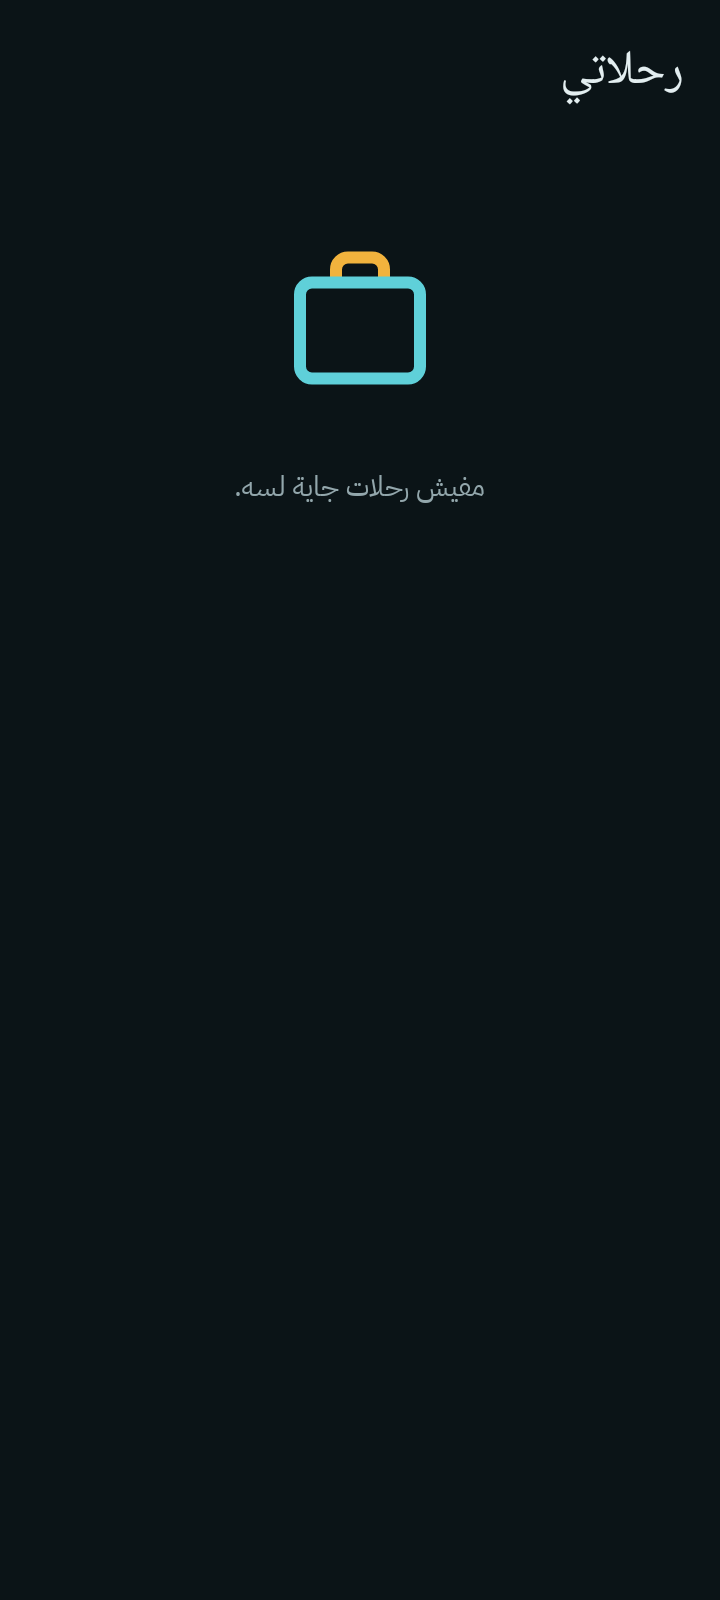
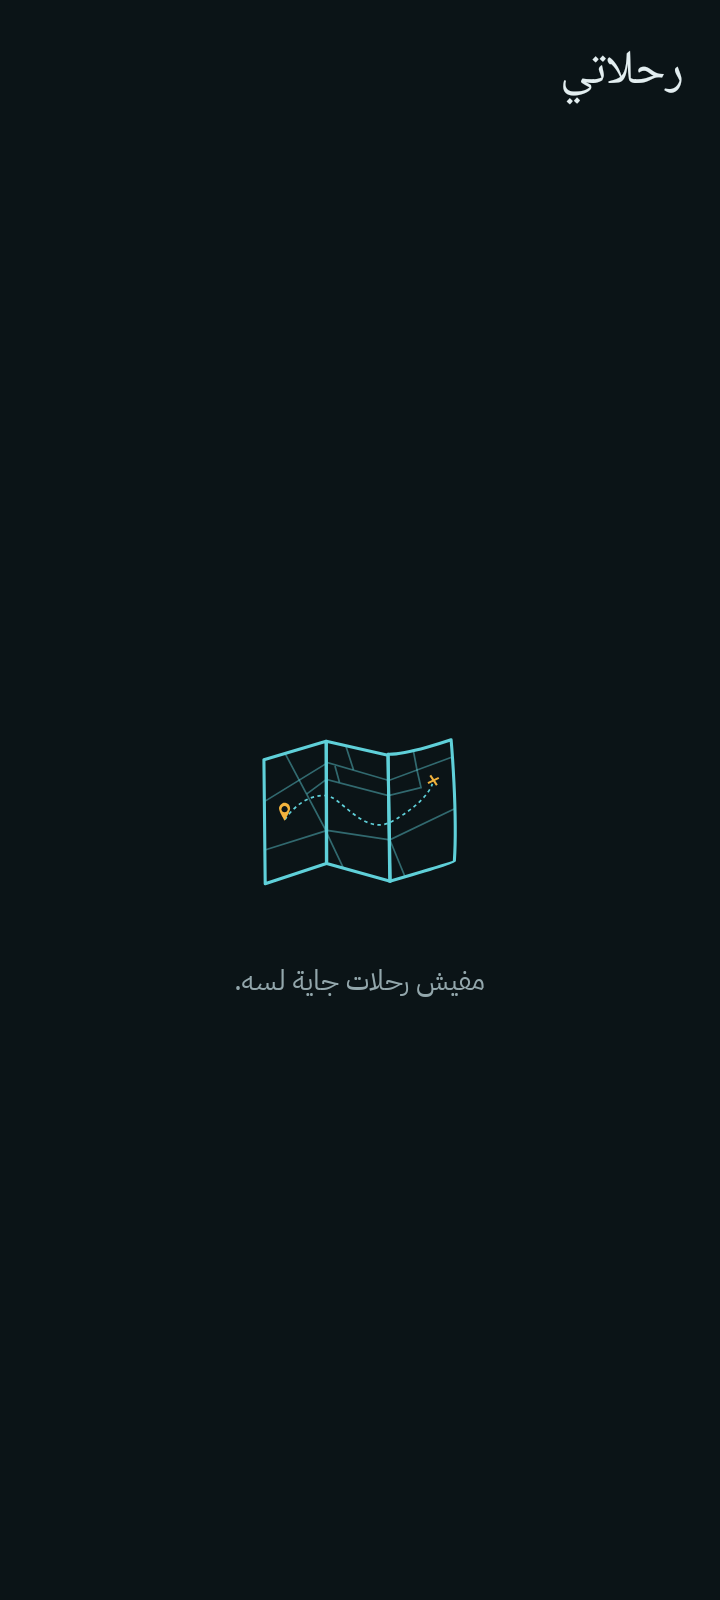
My trips empty state centred under the title (fillParentMaxSize, pull-to-refresh kept) and a new Lottie: "map opening animation" by Arslan Ali (Lottie Simple License) recoloured to primary/secondary, cropped to 700², replaces suitcase.json

diff --git a/feature/mytrips/src/commonMain/kotlin/eg/bahr/feature/mytrips/presentation/MyTripsScreen.kt b/feature/mytrips/src/commonMain/kotlin/eg/bahr/feature/mytrips/presentation/MyTripsScreen.kt
@@ -2,6 +2,7 @@ package eg.bahr.feature.mytrips.presentation
 
 import androidx.compose.foundation.background
 import androidx.compose.foundation.layout.Arrangement
+import androidx.compose.foundation.layout.Box
 import androidx.compose.foundation.layout.Column
 import androidx.compose.foundation.layout.PaddingValues
 import androidx.compose.foundation.layout.WindowInsets
@@ -157,20 +158,20 @@ internal fun MyTripsContent(
             contentPadding = PaddingValues(horizontal = BahrSpacing.gutter, vertical = BahrSpacing.lg),
             verticalArrangement = Arrangement.spacedBy(BahrSpacing.md),
         ) {
-            item(key = "title", contentType = CONTENT_HEADING) {
-                Text(
-                    text = stringResource(Res.string.mytrips_title),
-                    style = MaterialTheme.typography.headlineSmall,
-                    color = MaterialTheme.colorScheme.onSurface,
-                    modifier = Modifier.semantics { heading() }.padding(bottom = BahrSpacing.sm),
-                )
-            }
-            when (state.session) {
-                // The stored sign-in is read in a moment; drawing neither state until then keeps the
-                // signed-out prompt or a bookings skeleton from flashing (as the Alerts tab does, M3-M14).
-                SessionState.Unknown -> Unit
-                SessionState.SignedOut -> signedOut(state, actions)
-                is SessionState.SignedIn -> signedIn(state, blocks, past, actions)
+            if (signedIn && blocks.isEmpty()) {
+                // No trips yet: the title and the empty state share one item as tall as the list, so the state
+                // sits in the middle of the space under the title (a lazy item alone has no height to centre in;
+                // user, 2026-11-12). The list stays, so pulling down still reads the three sections again.
+                item(key = "empty", contentType = CONTENT_EMPTY) { NoTrips(Modifier.fillParentMaxSize()) }
+            } else {
+                item(key = "title", contentType = CONTENT_HEADING) { Title() }
+                when (state.session) {
+                    // The stored sign-in is read in a moment; drawing neither state until then keeps the
+                    // signed-out prompt or a bookings skeleton from flashing (as the Alerts tab does, M3-M14).
+                    SessionState.Unknown -> Unit
+                    SessionState.SignedOut -> signedOut(state, actions)
+                    is SessionState.SignedIn -> signedIn(state, blocks, past, actions)
+                }
             }
         }
     }
@@ -198,28 +199,49 @@ private fun LazyListScope.signedOut(
     }
 }
 
-/** The sections in their order ([sectionBlocks]); none at all is the empty state. */
+@Composable
+private fun Title(modifier: Modifier = Modifier) {
+    Text(
+        text = stringResource(Res.string.mytrips_title),
+        style = MaterialTheme.typography.headlineSmall,
+        color = MaterialTheme.colorScheme.onSurface,
+        modifier = modifier.semantics { heading() }.padding(bottom = BahrSpacing.sm),
+    )
+}
+
+/**
+ * Signed in with no trips in any section: the title, and under it, centred in the rest of [modifier]'s height,
+ * a map opening with a route to a pin while on screen (2026-11-12; a suitcase since M3-M8b) over the line that
+ * says it, so the animation is decorative. Drawn on the page's `background`, which its pin's hole and the
+ * route's end take ([BahrLottie.Ground.Background]).
+ */
+@Composable
+private fun NoTrips(modifier: Modifier) {
+    Column(modifier) {
+        Title()
+        Box(Modifier.weight(1f).fillMaxWidth()) {
+            BahrEmptyView(stringResource(Res.string.mytrips_empty_upcoming)) {
+                BahrLottie(
+                    modifier = Modifier.width(BahrSize.lottieState),
+                    props =
+                        BahrLottie.Props(
+                            BahrLottie.Animation.MapRoute,
+                            playback = BahrLottie.Playback.Loop,
+                            ground = BahrLottie.Ground.Background,
+                        ),
+                )
+            }
+        }
+    }
+}
+
+/** The sections in their order ([sectionBlocks]); never empty (that is [NoTrips]). */
 private fun LazyListScope.signedIn(
     state: MyTripsUiState,
     blocks: List<SectionBlock>,
     past: LazyPagingItems<MyBookingDto>,
     actions: MyTripsActions,
 ) {
-    if (blocks.isEmpty()) {
-        item(key = "empty", contentType = CONTENT_EMPTY) {
-            // No trips yet (M3-M8b): a suitcase packing and unpacking itself while on screen. Decorative:
-            // the line under it says it.
-            Centered {
-                BahrEmptyView(stringResource(Res.string.mytrips_empty_upcoming)) {
-                    BahrLottie(
-                        modifier = Modifier.width(BahrSize.lottieState),
-                        props = BahrLottie.Props(BahrLottie.Animation.Suitcase, playback = BahrLottie.Playback.Loop),
-                    )
-                }
-            }
-        }
-        return
-    }
     blocks.forEach { block ->
         val section = block.section
         when (block) {

diff --git a/feature/mytrips/src/androidHostTest/kotlin/eg/bahr/feature/mytrips/presentation/MyTripsScreenshotTest.kt b/feature/mytrips/src/androidHostTest/kotlin/eg/bahr/feature/mytrips/presentation/MyTripsScreenshotTest.kt
@@ -57,6 +57,7 @@ import org.junit.runner.RunWith
 import org.robolectric.RobolectricTestRunner
 import org.robolectric.annotation.Config
 import org.robolectric.annotation.GraphicsMode
+import kotlin.math.absoluteValue
 import kotlin.test.assertEquals
 import kotlin.test.assertTrue
 
@@ -245,7 +246,8 @@ class MyTripsScreenshotTest {
     fun sectionFailedDarkEnglish() =
         shoot("mytrips_section_failed_dark", AppLanguage.ENGLISH, waitlistFailed, MyTripsFixtures.past(), theme = BahrThemeName.Dark)
 
-    // Signed in, no trips in any section (M3-M8b): the looping suitcase over the line, shot still under reduced motion.
+    // Signed in, no trips in any section (M3-M8b): the looping map (a suitcase until 2026-11-12) over the line, in the
+    // middle of the space under the title; shot still under reduced motion.
     private val empty =
         MyTripsUiState(session = signedIn, upcoming = SectionLoad.Loaded(emptyList()), waitlist = SectionLoad.Loaded(emptyList()))
 
@@ -260,6 +262,47 @@ class MyTripsScreenshotTest {
 
     @Test
     fun emptyDarkEnglish() = shootStill("mytrips_empty_dark", AppLanguage.ENGLISH, empty, BahrThemeName.Dark)
+
+    /** User, 2026-11-12: the empty state sits in the middle of the space under the title, not at its top. */
+    @Test
+    fun `no trips - the empty state is centred under the title`() {
+        compose.setContent {
+            Themed(AppLanguage.ENGLISH, reducedMotion = true) {
+                MyTripsContent(
+                    state = empty,
+                    past = flowOf(PagingData.from(emptyList<MyBookingDto>(), loaded)).collectAsLazyPagingItems(),
+                    actions = MyTripsActions(),
+                )
+            }
+        }
+        compose.waitUntil(LOTTIE_LOAD_TIMEOUT_MS) { compose.onAllNodesWithTag(BAHR_LOTTIE_READY_TAG).fetchSemanticsNodes().isNotEmpty() }
+        val title = compose.onNodeWithText("My trips").getBoundsInRoot()
+        val list = compose.onNodeWithTag(MY_TRIPS_LIST_TAG).getBoundsInRoot()
+        val art = compose.onNodeWithTag(BAHR_LOTTIE_READY_TAG).getBoundsInRoot()
+        val line = compose.onNodeWithText("No upcoming trips yet.").getBoundsInRoot()
+        // The space under the title ends at the list's bottom padding.
+        val spaceMiddle = (title.bottom + list.bottom - BahrSpacing.lg) / 2
+        val stateMiddle = (art.top + line.bottom) / 2
+        assertTrue((stateMiddle - spaceMiddle).value.absoluteValue <= BahrSpacing.xs.value, "off centre by ${stateMiddle - spaceMiddle}")
+        assertTrue((art.left + art.right - list.left - list.right).value.absoluteValue <= BahrSpacing.xs.value, "not centred across")
+    }
+
+    /** The centred empty state is still the list: pulling it down reads the sections again. */
+    @Test
+    fun `no trips - a pull refreshes`() {
+        var pulls = 0
+        compose.setContent {
+            Themed(AppLanguage.ENGLISH, reducedMotion = true) {
+                MyTripsContent(
+                    state = empty,
+                    past = flowOf(PagingData.from(emptyList<MyBookingDto>(), loaded)).collectAsLazyPagingItems(),
+                    actions = MyTripsActions(onRefresh = { pulls++ }),
+                )
+            }
+        }
+        compose.onNodeWithTag(MY_TRIPS_LIST_TAG).performTouchInput { swipeDown() }
+        compose.runOnIdle { assertEquals(1, pulls) }
+    }
 
     @Test
     fun `Rate your trip calls back with the booking and its trip's title - only where it may be reviewed`() {

diff --git a/core/designsystem/src/androidHostTest/kotlin/eg/bahr/core/designsystem/components/BahrLottieScreenshotTest.kt b/core/designsystem/src/androidHostTest/kotlin/eg/bahr/core/designsystem/components/BahrLottieScreenshotTest.kt
@@ -33,9 +33,9 @@ import org.robolectric.annotation.GraphicsMode
 /**
  * BahrLottie (M3-M8): each shipped animation re-tinted for {light, dark, HighContrast}, on a fixed frame:
  *  - still (reduced motion: the last whole frame, where a played-once animation stops, or the frame the
- *    animation names, the suitcase's), in ar and en (the animation itself is not mirrored);
+ *    animation names), in ar and en (the animation itself is not mirrored);
  *  - mid-animation, to show the moving parts' colours (the bell's rings, the boat between two rocks, the
- *    check's halo, the suitcase growing).
+ *    check's halo, the map's pin popping up).
  *
  * Record: `./gradlew :core:designsystem:recordRoborazziAndroidHostTest`.
  */
@@ -103,10 +103,10 @@ class BahrLottieScreenshotTest {
                         BahrLottie(Modifier.width(BahrSize.lottieState), BahrLottie.Props(BahrLottie.Animation.Bell), progress)
                         BahrLottie(Modifier.height(BahrSize.lottieHero), BahrLottie.Props(BahrLottie.Animation.Sailboat), progress)
                     }
-                    // M3-M8b: the done moment's check, and the empty states' suitcase and magnifier.
+                    // M3-M8b: the done moment's check, and the empty states' map (My trips, since 2026-11-12) and magnifier.
                     Row(horizontalArrangement = Arrangement.spacedBy(BahrSpacing.md), verticalAlignment = Alignment.CenterVertically) {
                         BahrLottie(Modifier.width(BahrSize.lottieMoment), BahrLottie.Props(BahrLottie.Animation.SuccessCheck), progress)
-                        BahrLottie(Modifier.width(BahrSize.lottieMoment), BahrLottie.Props(BahrLottie.Animation.Suitcase), progress)
+                        BahrLottie(Modifier.width(BahrSize.lottieMoment), BahrLottie.Props(BahrLottie.Animation.MapRoute), progress)
                         BahrLottie(Modifier.width(BahrSize.lottieMoment), BahrLottie.Props(BahrLottie.Animation.Magnifier), progress)
                     }
                     Text(

diff --git a/core/designsystem/src/commonMain/kotlin/eg/bahr/core/designsystem/components/BahrLottie.kt b/core/designsystem/src/commonMain/kotlin/eg/bahr/core/designsystem/components/BahrLottie.kt
@@ -72,10 +72,10 @@ interface BahrLottie {
         SuccessCheck("files/lottie/success_check.json", SQUARE),
 
         /**
-         * A line-drawn suitcase that grows from a dot, shows its handle and shrinks back to the dot
-         * (square). Its still frame is the whole suitcase: the loop starts and ends on the dot.
+         * A line-drawn folded map that opens, its roads drawn in, a pin dropping and a dotted route
+         * leading from it to a cross, then held (square). Its still frame is the last: the whole map.
          */
-        Suitcase("files/lottie/suitcase.json", SQUARE, stillProgress = SUITCASE_STILL),
+        MapRoute("files/lottie/map_route.json", SQUARE),
 
         /** A magnifying glass with a sad face that changes its mind now and then (square). */
         Magnifier("files/lottie/magnifier.json", SQUARE),
@@ -229,8 +229,5 @@ private const val BELL_HEIGHT = 663f
 private const val SAILBOAT_WIDTH = 348f
 private const val SAILBOAT_HEIGHT = 240f
 
-/** The success check, suitcase and magnifier files have square canvases. */
+/** The success check, map and magnifier files have square canvases. */
 private const val SQUARE = 1f
-
-/** Mid-loop, between growing and shrinking: the whole suitcase with its handle. */
-private const val SUITCASE_STILL = .5f

diff --git a/core/designsystem/src/androidHostTest/kotlin/eg/bahr/core/designsystem/components/BahrLottieFramesTest.kt b/core/designsystem/src/androidHostTest/kotlin/eg/bahr/core/designsystem/components/BahrLottieFramesTest.kt
@@ -68,8 +68,8 @@ class BahrLottieFramesTest {
 
     /** The empty states' loops (M3-M8b) pause out of view like the bell. */
     @Test
-    fun suitcaseLoopOutOfViewAsksForNoFrames() {
-        show(BahrLottie.Playback.Loop, offScreen = true, animation = BahrLottie.Animation.Suitcase)
+    fun mapLoopOutOfViewAsksForNoFrames() {
+        show(BahrLottie.Playback.Loop, offScreen = true, animation = BahrLottie.Animation.MapRoute)
         compose.mainClock.advanceTimeBy(LONGER_THAN_ANY_ANIMATION_MS)
         assertFalse(asksForFrames())
     }
@@ -153,8 +153,8 @@ class BahrLottieFramesTest {
     private fun asksForFrames(): Boolean = Recomposer.runningRecomposers.value.any { it.hasPendingWork }
 
     private companion object {
-        /** The longest shipped file is the success check's, 4.6 s (M3-M8b). */
-        const val LONGER_THAN_ANY_ANIMATION_MS = 6_000L
+        /** The longest shipped file is the map's, 6 s (144 frames at 24 fps, 2026-11-12). */
+        const val LONGER_THAN_ANY_ANIMATION_MS = 7_000L
         const val LOAD_TIMEOUT_MS = 10_000L
 
         /** Well below the 640dp test screen. */
